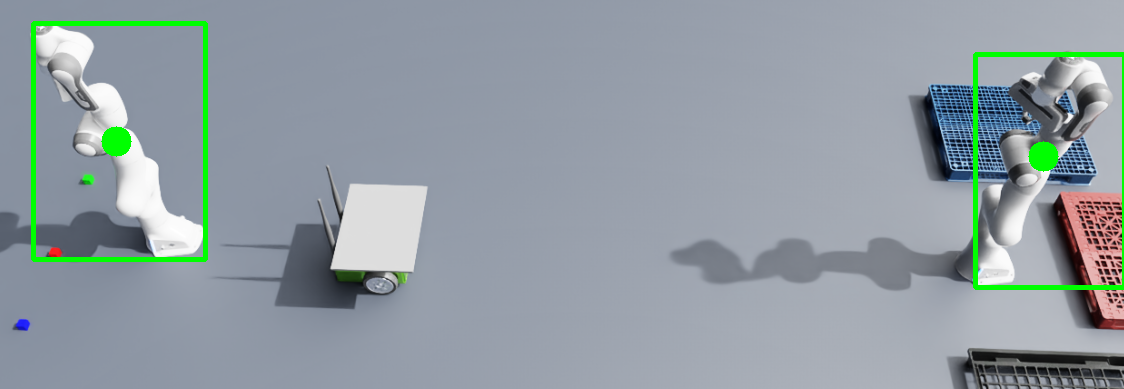
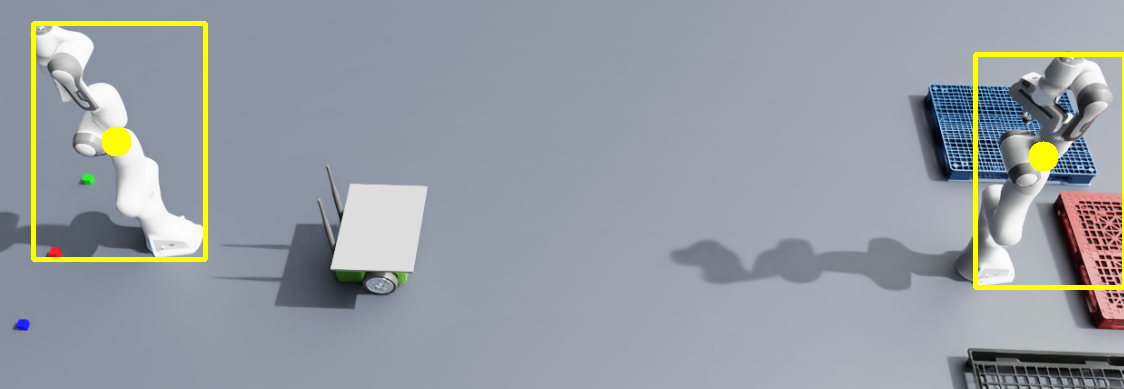
Vision task (VLM+CV) completed

diff --git a/Scripts/Server/server_bento.py b/Scripts/Server/server_bento.py
@@ -36,9 +36,10 @@ PALLET_PROMPTS = {
 
 ROBOT_PROMPTS = {
     "white": [
-        "white robotic arm with black joints",
-        "franka emika panda robot arm",
-        "mechanical robotic manipulator",
+        "white robotic arm located at the far left edge of the image",
+        "white robotic arm located at the far right edge of the image",
+        "franka emika panda arm near the corners",
+        "robotic manipulator, ignore the mobile platform in the center"
     ]
 }
 
@@ -55,14 +56,18 @@ class VLMServiceIsaac:
         ).eval()
         print(f"########## MODEL: {MODEL_ID.upper()} LOADED ##########")
 
-    def _is_hallucination(self, coords):
+    def _is_hallucination(self, coords, target_type):
         ymin, xmin, ymax, xmax = coords
         width, height = xmax - xmin, ymax - ymin
-        if width > 600 or height > 600 or width < 8 or height < 8:
-            return True
+        if target_type == "robot": # as the robots are larger, the hallucination filter must change
+            if width > 900 or height > 900 or width < 20 or height < 20:
+                return True
+        else: # we keep it normal for the cubes and pallets.
+            if width > 600 or height > 600 or width < 8 or height < 8:
+                return True
         return False
 
-    def _infer(self, image: Image.Image, instruction: str) -> dict:
+    def _infer(self, image: Image.Image, instruction: str, target_type:str) -> dict:
         prompt = (
         f"Locate the {instruction}. I have marked its exact color center with a yellow square. "
         f"Focus ONLY on the center of that yellow square to provide the coordinates. "
@@ -119,41 +124,69 @@ class VLMServiceIsaac:
         )
         if bracket_match:
             coords = [int(x) for x in bracket_match.groups()]
-            if self._is_hallucination(coords):
+            if self._is_hallucination(coords, target_type):
                 return {"target": {"found": False}}
             return {"target": {"bbox_xyxy": coords, "found": True}}
         return {"target": {"found": False}}
 
     @bentoml.api
-    async def ground_multi(
-        self,
-        color: str,
-        image_b64: str,
-        target_type: str = "cube",
-        custom_prompt: str = None,
-    ) -> dict:
+    async def ground_multi(self, color: str, image_b64: str, target_type: str = "cube", custom_prompt: str = None) -> dict:
         img_bytes = base64.b64decode(image_b64)
         image = Image.open(io.BytesIO(img_bytes)).convert("RGB")
+        w, h = image.size
+
+        if target_type == "robot":
+            prompt_dict = ROBOT_PROMPTS
+        elif target_type == "cube":
+            prompt_dict = CUBE_PROMPTS
+        else:
+            prompt_dict = PALLET_PROMPTS
+
+        prompts = prompt_dict.get(color.lower(), [f"small {color} {target_type}"])
 
         if custom_prompt:
-            print(f"\nVLM: using custom prompt: {custom_prompt}")
-            return self._infer(image, custom_prompt)
+            print(f"\n##### VLM: using custom prompt: {custom_prompt} #####")
+            return self._infer(image, custom_prompt, target_type) 
+        
+        if target_type == "robot":
+            detected_targets = []
+            crops = [
+                (image.crop((0, 0, int(w*0.4), h)), "left"),
+                (image.crop((int(w*0.6), 0, w, h)), "right")
+            ]
+            
+            for crop_img, side in crops:
+                p = "the white franka panda robotic arm"
+                res = self._infer(crop_img, p, target_type)
+                
+                if res["target"]["found"]:
+                    bbox = res["target"]["bbox_xyxy"]
+                    if side == "right":
+                        bbox[1] += 600 # xmin (ajustado al offset del crop 0.6*1000)
+                        bbox[3] += 600 # xmax
+                    else:
+                        bbox[1] = int(bbox[1] * 0.4)
+                        bbox[3] = int(bbox[3] * 0.4)
+                    
+                    detected_targets.append({"bbox_xyxy": bbox, "found": True})
+            
+            return {"targets": detected_targets}
 
-        prompts = CUBE_PROMPTS.get(color.lower(), [f"small {color} {target_type}"])
-        valid_bboxes = []
-        for p in prompts:
-            res = self._infer(image, p)
-            if res["target"]["found"]:
-                valid_bboxes.append(res["target"]["bbox_xyxy"])
+        else: 
+            valid_bboxes = []
+            for p in prompts:
+                res = self._infer(image, p, target_type)
+                if res["target"]["found"]:
+                    valid_bboxes.append(res["target"]["bbox_xyxy"])
 
-        if not valid_bboxes:
-            return {"target": {"found": False}}
+            if not valid_bboxes:
+                return {"target": {"found": False}}
 
-        median_bbox = np.median(np.array(valid_bboxes), axis=0).astype(int).tolist()
-        return {
-            "target": {
-                "found": True,
-                "bbox_xyxy": median_bbox,
-                "num_valid": len(valid_bboxes),
+            median_bbox = np.median(np.array(valid_bboxes), axis=0).astype(int).tolist()
+            return {
+                "target": {
+                    "found": True,
+                    "bbox_xyxy": median_bbox,
+                    "num_valid": len(valid_bboxes),
+                }
             }
-        }

diff --git a/Scripts/CameraSim/camera_detect.py b/Scripts/CameraSim/camera_detect.py
@@ -54,8 +54,8 @@ OFFSETS = {
         "black": [-0.084, 0.294, 0.0]
     },
     "robot": {
-        "left": [.30, .05, .0],
-        "right": [-.36, -.6, .0]
+        "left":  [0.56, -0.39, 0.0], 
+        "right": [-1.62, -0.93, 0.0]
     }
 }
 
@@ -111,7 +111,7 @@ def unproject(u, v, depth_map, cam_matrix):
     return world_p[:3]
 
 async def main_vision():
-    print(f"##### LOOKING FOR {TARGET_COLOR.upper()} {TARGET_TYPE.upper()} #####")
+    print(f"##### BUSCANDO {TARGET_TYPE.upper()} {TARGET_COLOR.upper()} #####")
     
     rp = rep.create.render_product(CAMERA_PATH, resolution=RESOLUTION)
     rgb_ann = rep.AnnotatorRegistry.get_annotator("rgb")
@@ -121,10 +121,8 @@ async def main_vision():
     stage = omni.usd.get_context().get_stage()
     cam_prim = stage.GetPrimAtPath(CAMERA_PATH)
     
-    # necessary so the camera physics don't explode xd
     for _ in range(20): await rep.orchestrator.step_async()
 
-    # Storage for multiple robot detection
     final_results = {}
     tracking_state = {}
 
@@ -132,29 +130,38 @@ async def main_vision():
         await rep.orchestrator.step_async()
         rgb_data = rgb_ann.get_data()
         dep_data = dep_ann.get_data()
-        if rgb_data is None: continue
+        
+        if rgb_data is None or dep_data is None: 
+            continue
 
         if TARGET_TYPE == "pallet":
             proc_rgb, found = detect_palette(rgb_data, TARGET_COLOR)
         elif TARGET_TYPE == "robot":
-            proc_rgb, found = detect_frankas(rgb_data, TARGET_COLOR)
+            proc_rgb, found = detect_frankas(rgb_data, "white")
         else:
             proc_rgb, found = detect_cubes(rgb_data, TARGET_COLOR)
 
-        if not found: continue
+        if not found: 
+            continue
 
         img = PILImage.fromarray(proc_rgb)
         buffered = BytesIO()
         img.save(buffered, format="PNG")
         img_str = base64.b64encode(buffered.getvalue()).decode("utf-8")
         
-        payload = {"color": TARGET_COLOR, "image_b64": img_str, "target_type": TARGET_TYPE}
+        payload = {
+            "color": "white" if TARGET_TYPE == "robot" else TARGET_COLOR, 
+            "image_b64": img_str, 
+            "target_type": TARGET_TYPE
+        }
+
         try:
             res = await asyncio.get_event_loop().run_in_executor(None, 
-                  lambda: requests.post(URL_MULTI, json=payload, timeout=10).json())
+                  lambda: requests.post(URL_MULTI, json=payload, timeout=30).json())
             
             detections = res.get("targets", [])
-            if not detections and res.get("target"): detections = [res["target"]]
+            if not detections and res.get("target"): 
+                detections = [res["target"]]
             
             for det in detections:
                 if det.get("found"):
@@ -167,7 +174,13 @@ async def main_vision():
                     xyz_raw = unproject(u_f, v_f, dep_data, cam_mat)
 
                     if xyz_raw is not None:
+                        if TARGET_TYPE == "robot":
+                            if 1.2 < xyz_raw[0] < 3.2:
+                                print(f"##### DETECTION IGNORED, MAY BE JETBOT: {xyz_raw[0]:.2f} #####")
+                                continue
+                        
                         xyz_raw[2] = 0.015 if TARGET_TYPE == "cube" else 0.0
+                        
                         xyz = apply_calibration(xyz_raw, TARGET_COLOR, TARGET_TYPE)
 
                         obj_id = ("left" if xyz[0] < 2.0 else "right") if TARGET_TYPE == "robot" else "default"
@@ -182,7 +195,7 @@ async def main_vision():
                                 tracking_state[obj_id] = [xyz, 1]
 
                         if tracking_state[obj_id][1] >= STABILITY_COUNT and obj_id not in final_results:
-                            print(f"##### {TARGET_TYPE.upper()} {obj_id.upper()} LOCKED! #####")
+                            print(f"##### {TARGET_TYPE.upper()} {obj_id.upper()} DETECTED #####")
                             final_results[obj_id] = xyz
                             spawn_marker(xyz, TARGET_COLOR, obj_id)
 
@@ -192,7 +205,7 @@ async def main_vision():
                 return final_results
 
         except Exception as e:
-            print(f"Error: {e}")
+            print(f"Vision error: {e}")
         
         await asyncio.sleep(0.05)
 

diff --git a/Scripts/CameraSim/CV/demo_frankas.py b/Scripts/CameraSim/CV/demo_frankas.py
@@ -55,8 +55,8 @@ def detect_only_frankas(img_path, output_path):
                 cX, cY = int(M["m10"] / M["m00"]), int(M["m01"] / M["m00"])
                 
                 # Dibujamos marcador específico para el Robot
-                cv2.rectangle(overlay, (x, y), (x + wb, y + hb), (0, 255, 0), 3) # Verde para Robots
-                cv2.circle(overlay, (cX, cY), 15, (0, 255, 0), -1)
+                cv2.rectangle(overlay, (x, y), (x + wb, y + hb), (0, 255, 255), 3) # Verde para Robots
+                cv2.circle(overlay, (cX, cY), 15, (0, 255, 255), -1)
                 #cv2.putText(overlay, "FRANKA ROBOT", (x, y-15), 
                             # cv2.FONT_HERSHEY_SIMPLEX, 0.8, (0, 255, 0), 2)
                 count += 1

diff --git a/Scripts/CameraSim/CV/detect_frankas.py b/Scripts/CameraSim/CV/detect_frankas.py
@@ -31,8 +31,8 @@ def detect(rgb_image, color):
                 cX = int(M["m10"] / M["m00"])
                 cY = int(M["m01"] / M["m00"])
                 x, y, wb, hb = cv2.boundingRect(contour)
-                cv2.rectangle(overlay, (x,y), (x+wb, y+hb), (0,255, 0), 4)
-                cv2.circle(overlay, (cX, cY), 12, (0,255, 0), -1)
+                cv2.rectangle(overlay, (x,y), (x+wb, y+hb), (255), 4)
+                cv2.circle(overlay, (cX, cY), 12, (0,255, 255), -1)
                 found_any = True
 
     return cv2.cvtColor(overlay, cv2.COLOR_BGR2RGB), found_any # and we return back the image from bgr -> rgb
